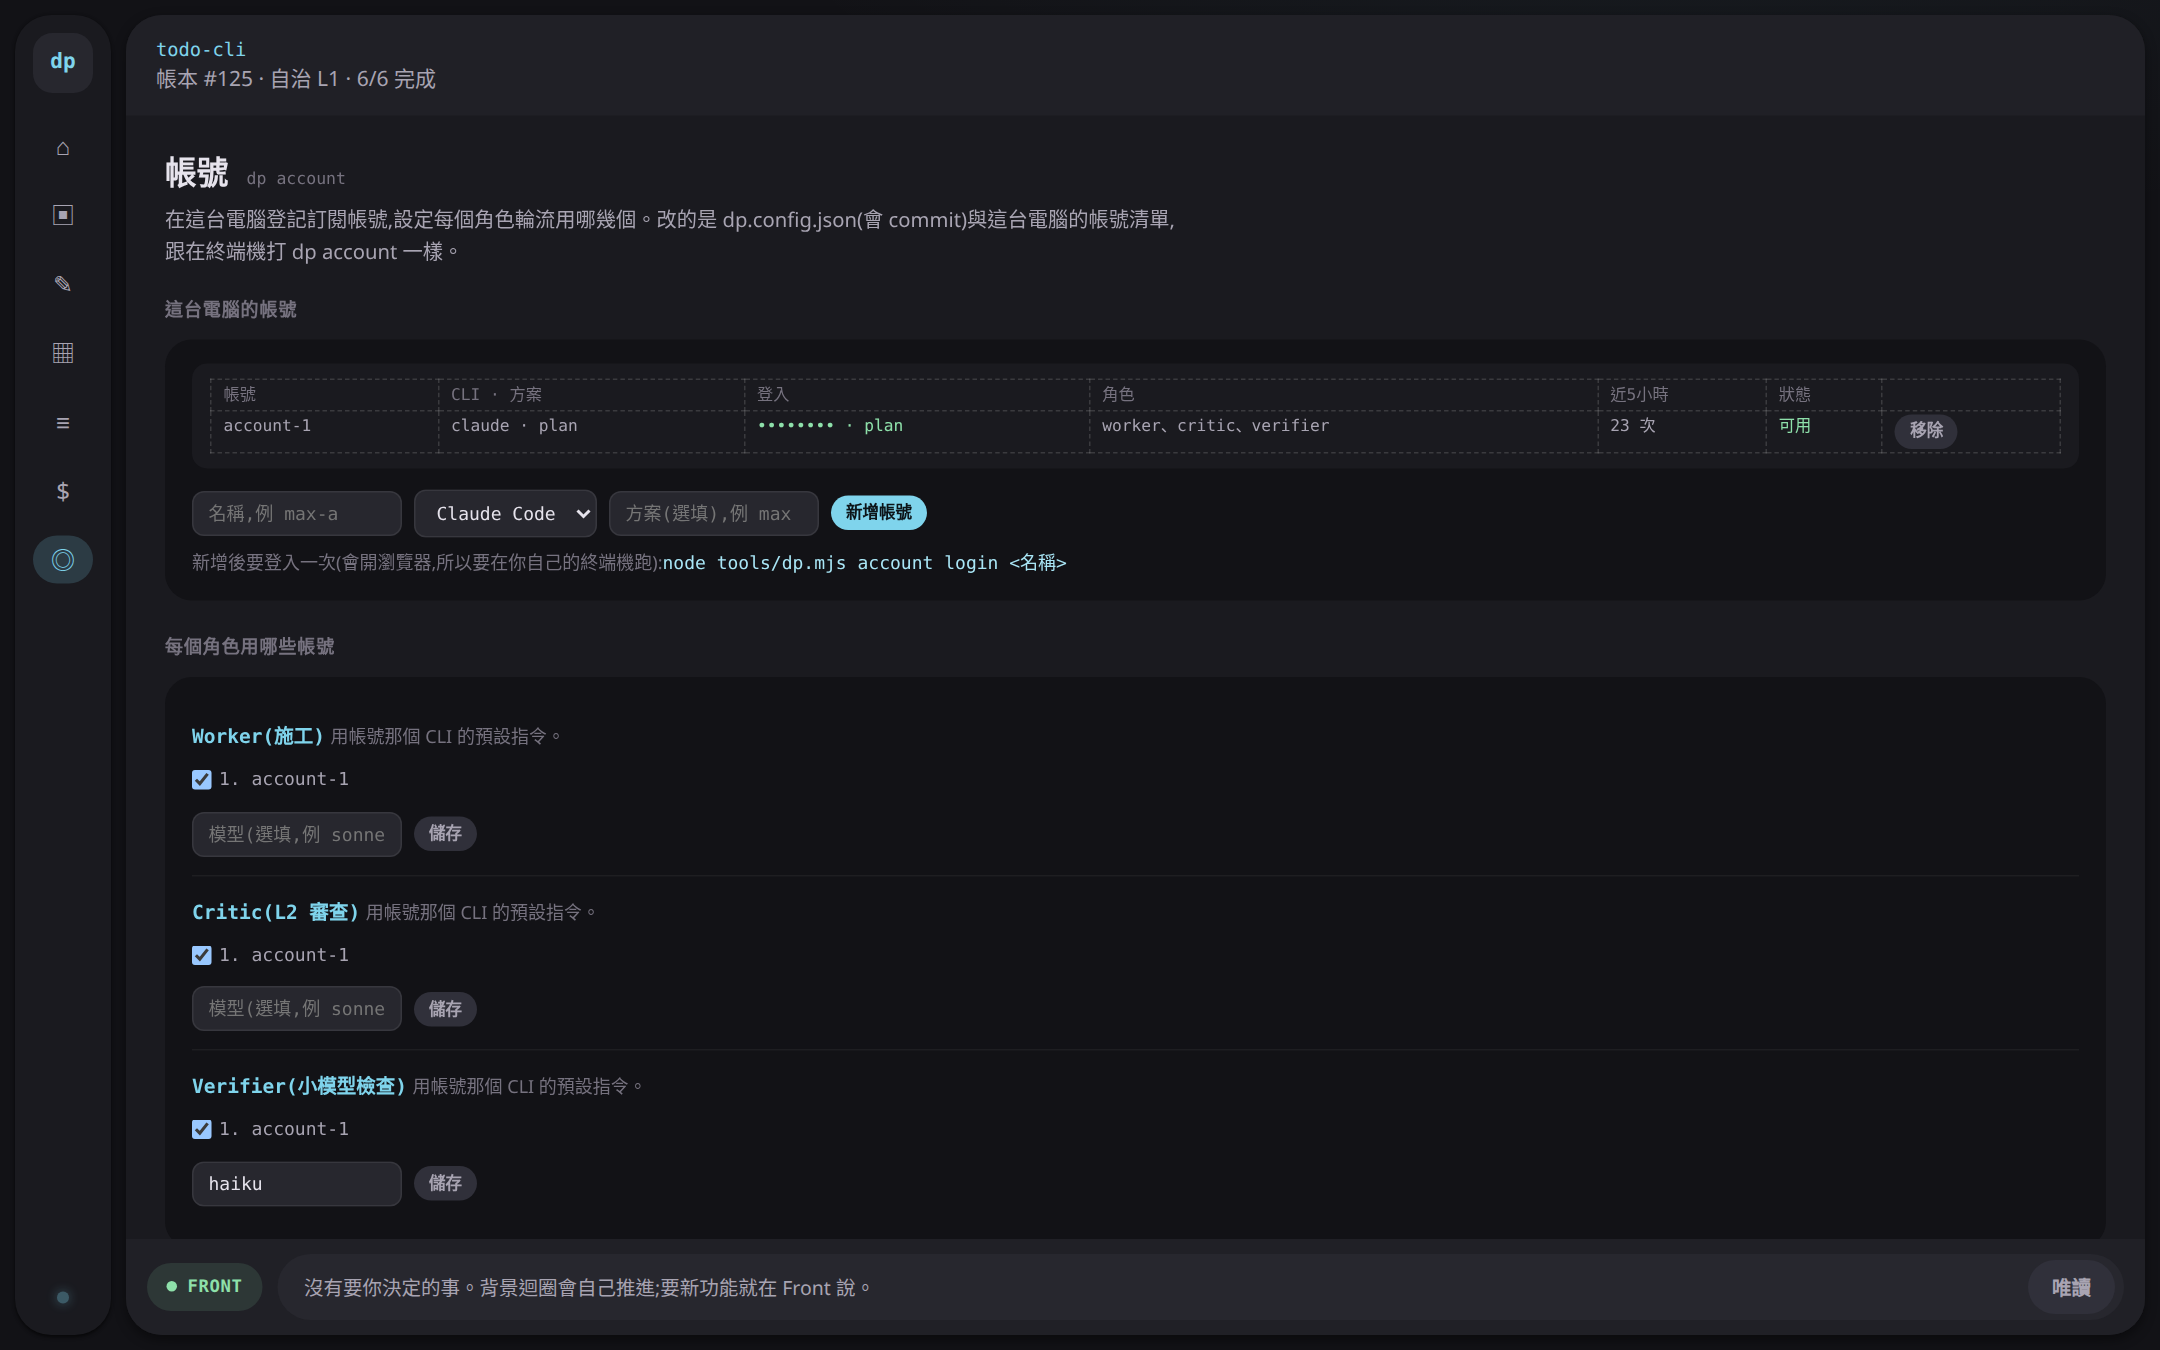
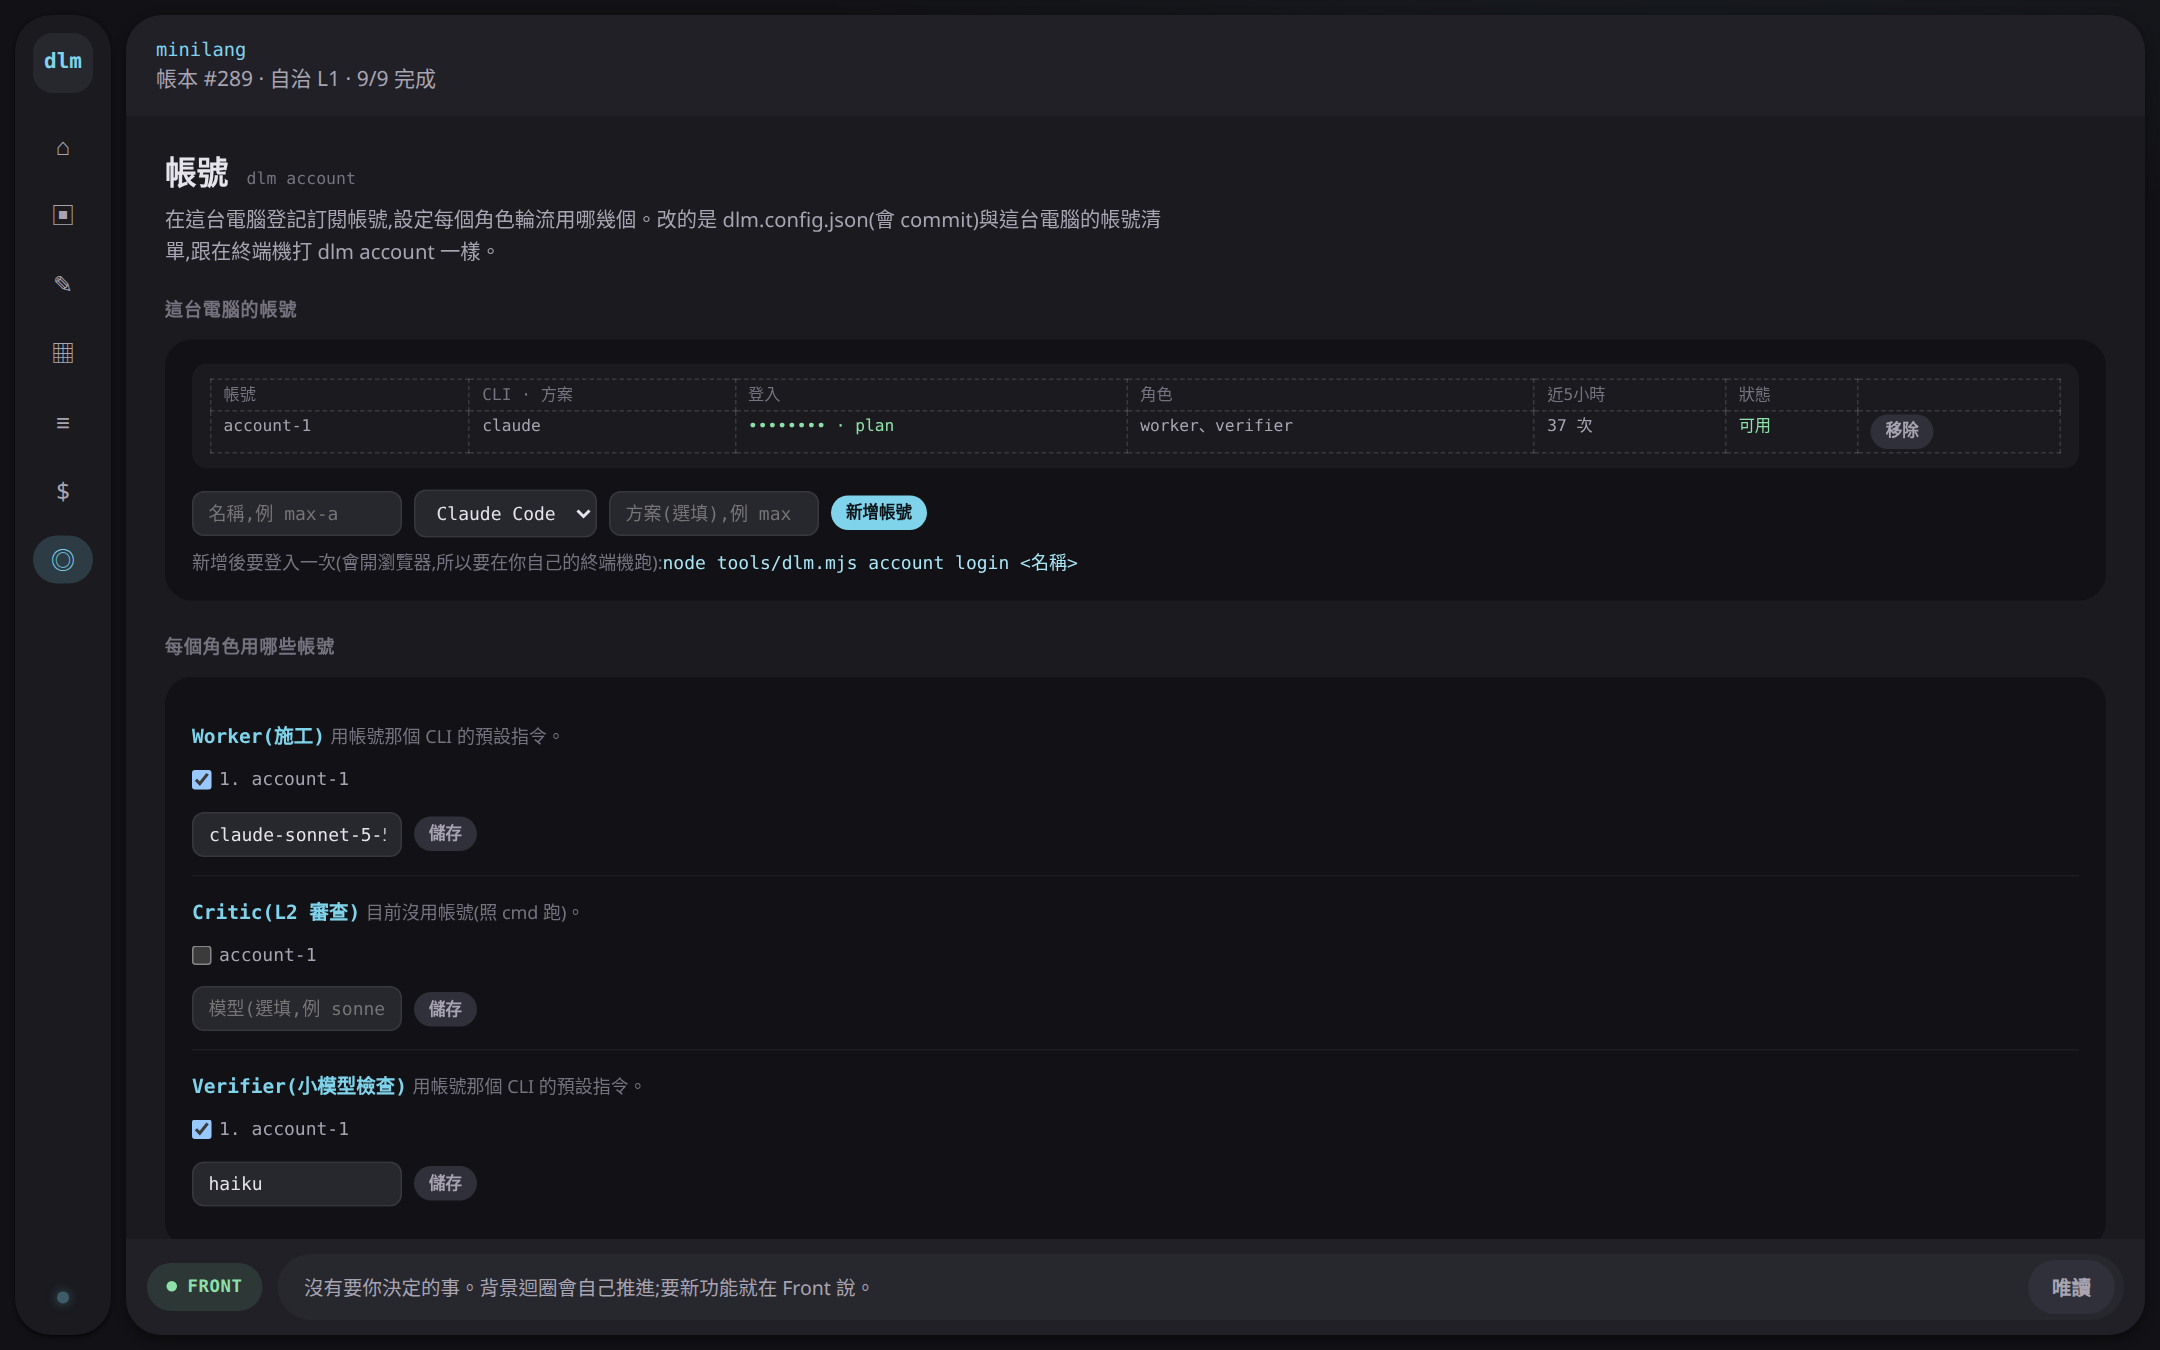
README: retake the dashboard screenshots with dlm
The hub, console, planning, pipeline, timeline, cost and accounts
screenshots now show the renamed UI on the upgraded minilang project.
The account name, plan and login are anonymized as before. The two
brownfield screenshots come from a project that no longer exists, so
they stay, with a note that they are from 4.7.3.

diff --git a/README.md b/README.md
@@ -250,6 +250,8 @@ To change the level, the daily budget or the number of workers, say so to Front.
 
 ![Existing project: wordfreq's top/v1 went characterize → test → dev; the Harness column shows the gate failing until dlm's files were committed, then passing](docs/images/brownfield.png)
 
+<sub>Screenshot from 4.7.3, before the rename: the logo and the labels in it still say dp.</sub>
+
 ### 8. Subscription accounts
 
 If you have several Claude Max / Pro or ChatGPT (Codex) plans, dlm can rotate through them and switch when one hits its limit.
@@ -339,6 +341,8 @@ At the top: role status lights, the cost bar, and **▶ Replay**, which plays on
 Left: the planning record with Front. You see each proposal's nodes, write-sets, gherkin files and options, and your exact words when you approved or tried something. Right: version progress from `docs/ROADMAP.md`. The top-right shows Greenfield / Brownfield. For brownfield projects it also shows the test baseline and whether AS-IS is written.
 
 ![Planning for an existing project: language, test command, baseline and AS-IS at the top; v0 (as it was) and v1 on the roadmap](docs/images/brownfield-planning.png)
+
+<sub>Screenshot from 4.7.3, before the rename: the logo and the labels in it still say dp.</sub>
 
 ### Pipeline
 
